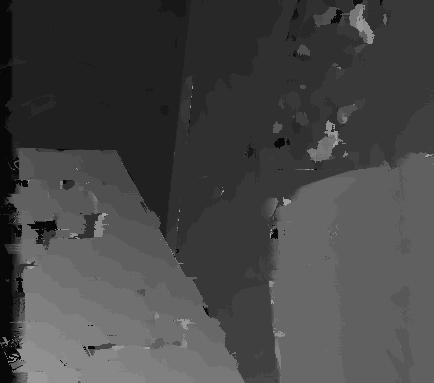
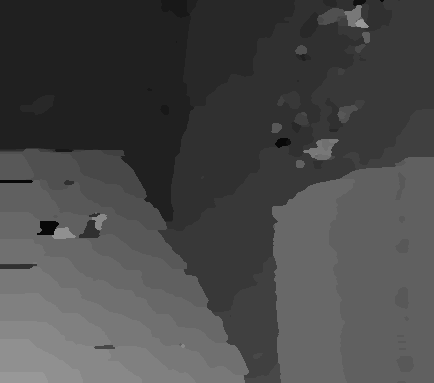
push

diff --git a/Assignment4/main.py b/Assignment4/main.py
@@ -100,63 +100,129 @@ def computeDisp(Il, Ir, max_disp):
     Il = Il / 255
     Ir = Ir / 255
     
-    Il_dx = Il.copy()
-    Il_dx[:, 1:] =  Il_dx[:, 1:] - Il[:, :w-1]
-    Ir_dx = Ir.copy()
-    Ir_dx[:, 1:] =  Ir_dx[:, 1:] - Ir[:, :w-1]
-    
-    cost_ls = []
     
     # >>> Cost computation
     tic = time.time()
     
     # TODO: Compute matching cost from Il and Ir
+    
+    cost_ls = []
+    
     for d in range(1, max_disp+1):
         cost1 = Il.copy()
         Ir_ = Ir[:, :w-d, :]
         cost1[:, d:, :] = cost1[:, d:, :] - Ir_
         cost1 = cost1**2
         cost1 = np.sum(cost1, axis=2)
+
+        cost_ls.append(cost1)
         
-        cost2 = Il_dx.copy()
-        cost2[:, d:, :] = cost2[:, d:, :] - Ir_dx[:, :w-d, :]
-        cost2= cost2**2
-        cost2 = np.sum(cost2, axis=2)
+    costvolume_l = np.stack(cost_ls, axis=2)
+    
+    cost_ls = []
+    
+    for d in range(1, max_disp+1):
+        cost1 = Ir.copy()
+        Il_ = Il[:, d:, :]
+        cost1[:, :w-d, :] = cost1[:, :w-d, :] - Il_
+        cost1 = cost1**2
+        cost1 = np.sum(cost1, axis=2)
         
-        cost_ls.append(0.1*cost1 + 0.*cost2)
+        cost_ls.append(cost1)
         
-    costvolume = np.stack(cost_ls, axis=2)
+    costvolume_r = np.stack(cost_ls, axis=2)
         
     toc = time.time()
     print('* Elapsed time (cost computation): %f sec.' % (toc - tic))
+
+
+
+
+
 
     # >>> Cost aggregation
     tic = time.time()
     
     # TODO: Refine cost by aggregate nearby costs
-    costvolume_filtered = JBF(costvolume, Il, 19, 9, 0.1)
+    costvolume_filtered_l = JBF(costvolume_l, Il, 19, 9, 0.2)
+    costvolume_filtered_r = JBF(costvolume_r, Ir, 19, 9, 0.2)
     
     toc = time.time()
     print('* Elapsed time (cost aggregation): %f sec.' % (toc - tic))
+
+
+
+
+
+
+
+
 
     # >>> Disparity optimization
     tic = time.time()
     
     # TODO: Find optimal disparity based on estimated cost. Usually winner-take-all.
-    labels = np.argmin(costvolume_filtered, axis=2)
-    labels = labels + 1
+    
+    labels_l = np.argmin(costvolume_filtered_l, axis=2)
+    labels_l = labels_l + 1
+    labels_r = np.argmin(costvolume_filtered_r, axis=2)
+    labels_r = labels_r + 1
      
     toc = time.time()
     print('* Elapsed time (disparity optimization): %f sec.' % (toc - tic))
+
+
+
+
+
+
+
+
+
 
     # >>> Disparity refinement
     tic = time.time()
     # TODO: Do whatever to enhance the disparity map
     # ex: Left-right consistency check + hole filling + weighted median filtering
+    
+    occluded = np.full((h, w), True)
+    for i in range(h):
+        for j in range(w):
+            
+            if int(j-labels_l[i, j]) < 0:
+                continue
+            
+            if labels_l[i, j] == labels_r[i][int(j-labels_l[i, j])]:
+                occluded[i, j] = False
+    
+    for i in range(h):
+        not_occluded = np.where(occluded[i] == False)[0]
+        for j in range(w):
+            if occluded[i, j]:
+                labels_l[i, j] = labels_l[i, not_occluded[np.argmin(np.abs(not_occluded-j))]]
+    
+    
+#    occluded = np.full((h, w), True)
+#    for i in range(h):
+#        for j in range(w):
+#            if int(j+labels_r[i, j]) >= w:
+#                continue
+#            if labels_r[i, j] == labels_l[i][int(j+labels_r[i, j])]:
+#                occluded[i, j] = False
+#    
+#    for i in range(h):
+#        not_occluded = np.where(occluded[i] == False)[0]
+#        for j in range(w):
+#            if occluded[i, j]:
+#                labels_r[i, j] = labels_r[i, not_occluded[np.argmin(np.abs(not_occluded-j))]]
+#            
+#    labels = np.stack([labels_l, labels_r], axis=2)
+    
     toc = time.time()
     print('* Elapsed time (disparity refinement): %f sec.' % (toc - tic))
-
-    return labels
+    
+    labels_l = labels_l.astype('uint8')
+    return cv2.medianBlur(labels_l, 3)
 
 
 def main():
